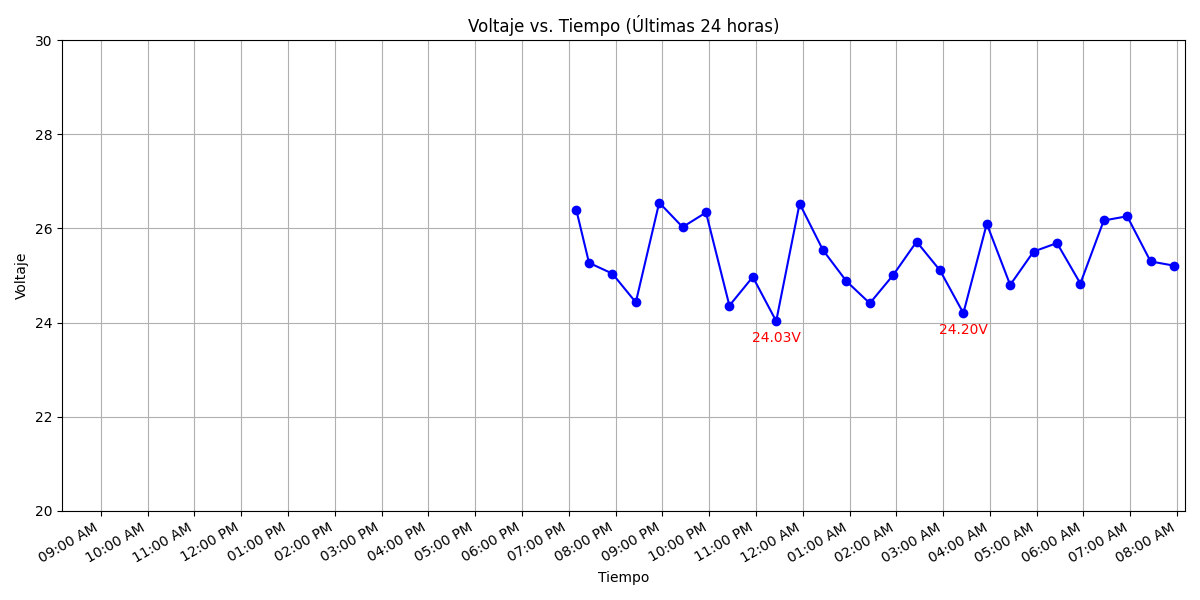
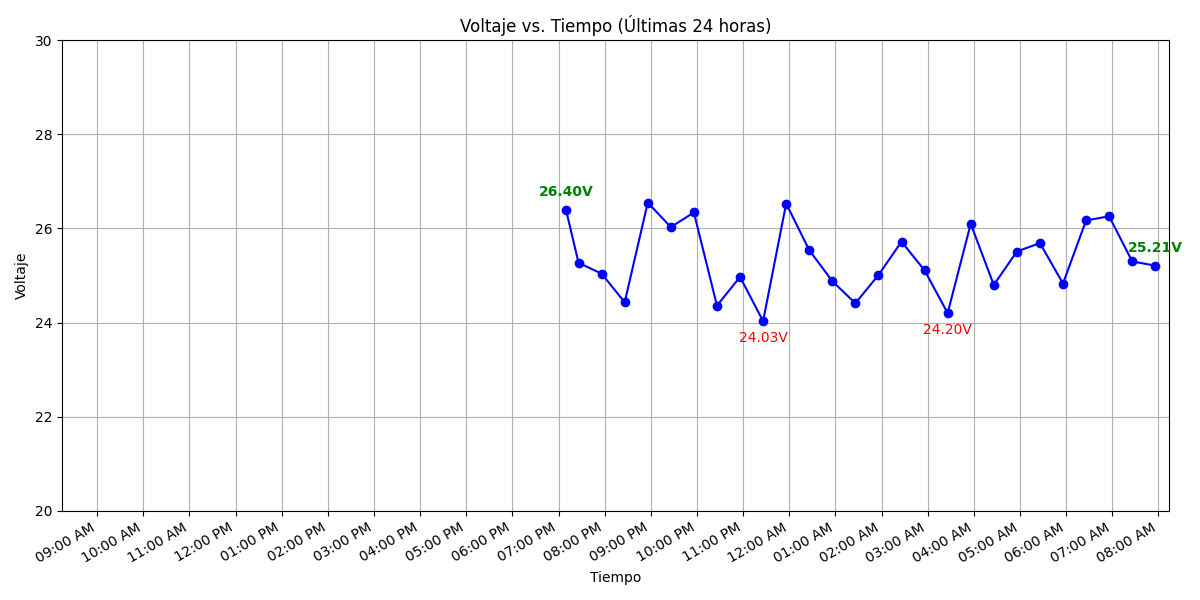
feat: Enhance image annotation in voltage graph and improve WhatsApp image handling

diff --git a/index.js b/index.js
@@ -110,7 +110,7 @@ client.on('disconnected', (reason) => {
             
             // Si hay una imagen, enviarla con o sin mensaje
             if (image) {
-                const media = new MessageMedia('image/jpeg', image.toString('base64'));
+                const media = new MessageMedia('image/png', Buffer.from(image).toString('base64'));
                 await client.sendMessage(`${formattedNumber}@c.us`, media, {
                     caption: textMessage || ''
                 });

diff --git a/whatsapp_sender.py b/whatsapp_sender.py
@@ -8,72 +8,65 @@ class WhatsAppSender:
         self.send_message_endpoint = f"{api_url}/send-message"
 
     def send_message(self, 
-                    phone_number: str, 
-                    message: str, 
-                    image_path: Optional[str] = None) -> dict:
+                     phone_number: str, 
+                     message: str, 
+                     image_path: Optional[str] = None) -> dict:
         try:
-            # Asegurar que el número de teléfono tiene el formato correcto
+            # Asegurar que el número de teléfono tenga el formato correcto
             phone_number = phone_number.strip().replace('+', '')
             if not phone_number.startswith('57'):
-                phone_number = '57' + phone_number
+                phone_number = '57' + phone_number  # Ajusta según el país
 
-            # Headers explícitos
-            headers = {
-                'Content-Type': 'application/json'
-            }
-
-            # Preparar los datos
+            # Construir los datos del mensaje
             payload = {
                 'phone_number': phone_number,
                 'message': message.strip()
             }
 
             print(f"Enviando request a: {self.send_message_endpoint}")
-            print(f"Headers: {headers}")
             print(f"Payload: {payload}")
 
+            # Verificar si la imagen existe antes de enviarla
             if image_path and os.path.exists(image_path):
-                # Si hay imagen, usar multipart/form-data
-                files = {
-                    'image': ('image.jpg', open(image_path, 'rb'), 'image/jpeg')
-                }
-                response = requests.post(
-                    self.send_message_endpoint,
-                    data=payload,
-                    files=files,
-                    timeout=30
-                )
+                print(f"Adjuntando imagen: {image_path}")
+                with open(image_path, 'rb') as image_file:
+                    files = {'image': image_file}  # Enviar como 'image' según el backend
+                    response = requests.post(
+                        self.send_message_endpoint,
+                        data=payload,  # Enviar el payload como 'data', no 'json'
+                        files=files,   # Imagen como multipart/form-data
+                        timeout=30
+                    )
             else:
-                # Si no hay imagen, usar JSON
+                print("Enviando solo mensaje sin imagen.")
                 response = requests.post(
                     self.send_message_endpoint,
-                    json=payload,  # Usar json en lugar de data
-                    headers=headers,
+                    data=payload,  # Importante: 'data', no 'json'
                     timeout=30
                 )
-            
+
             print(f"Status Code: {response.status_code}")
             print(f"Response: {response.text}")
-            
             return response.json()
             
         except Exception as e:
             print(f"Error en send_message: {str(e)}")
-            return {
-                'success': False,
-                'error': str(e)
-            }
+            return {'success': False, 'error': str(e)}
 
 if __name__ == "__main__":
     try:
         sender = WhatsAppSender()
         
-        # Ejemplo: Enviar solo mensaje
+        # Ruta de la imagen a enviar
+        image_path = "img/voltage_last24hours.png"
+        
+        # Enviar mensaje con imagen adjunta
         result = sender.send_message(
-            phone_number="3147654655",  # Reemplaza con tu número
-            message="¡Hola! Este es un mensaje de prueba 👋"
+            phone_number="3147654655",  # Reemplaza con tu número de WhatsApp
+            message="🔋 Aquí tienes el reporte de voltaje de las últimas 24 horas.",
+            image_path=image_path
         )
-        print("Resultado mensaje texto:", result)
+        print("Resultado del envío:", result)
         
     except Exception as e:
         print(f"Error general: {str(e)}")

diff --git a/image_generator.py b/image_generator.py
@@ -58,7 +58,26 @@ if tiempos and voltajes:
 
     plt.gcf().autofmt_xdate()  # Rotar etiquetas para mejor lectura
     
-    # Identificar los puntos más bajos y anotar sus valores
+    # **Mostrar valores en el primer y último punto**
+    plt.annotate(f"{voltajes[0]:.2f}V",  # Primer punto
+                 (tiempos[0], voltajes[0]), 
+                 textcoords="offset points", 
+                 xytext=(0, 10),  # Mover hacia arriba
+                 ha='center', 
+                 fontsize=10, 
+                 color='green',
+                 fontweight='bold')
+
+    plt.annotate(f"{voltajes[-1]:.2f}V",  # Último punto
+                 (tiempos[-1], voltajes[-1]), 
+                 textcoords="offset points", 
+                 xytext=(0, 10),  # Mover hacia arriba
+                 ha='center', 
+                 fontsize=10, 
+                 color='green',
+                 fontweight='bold')
+
+    # **Anotaciones para los puntos más bajos**
     min_threshold = min(voltajes) + 0.2  # Consideramos los más bajos cercanos al mínimo +0.2V
     for i in range(len(voltajes)):
         if voltajes[i] <= min_threshold:  # Filtrar puntos bajos
